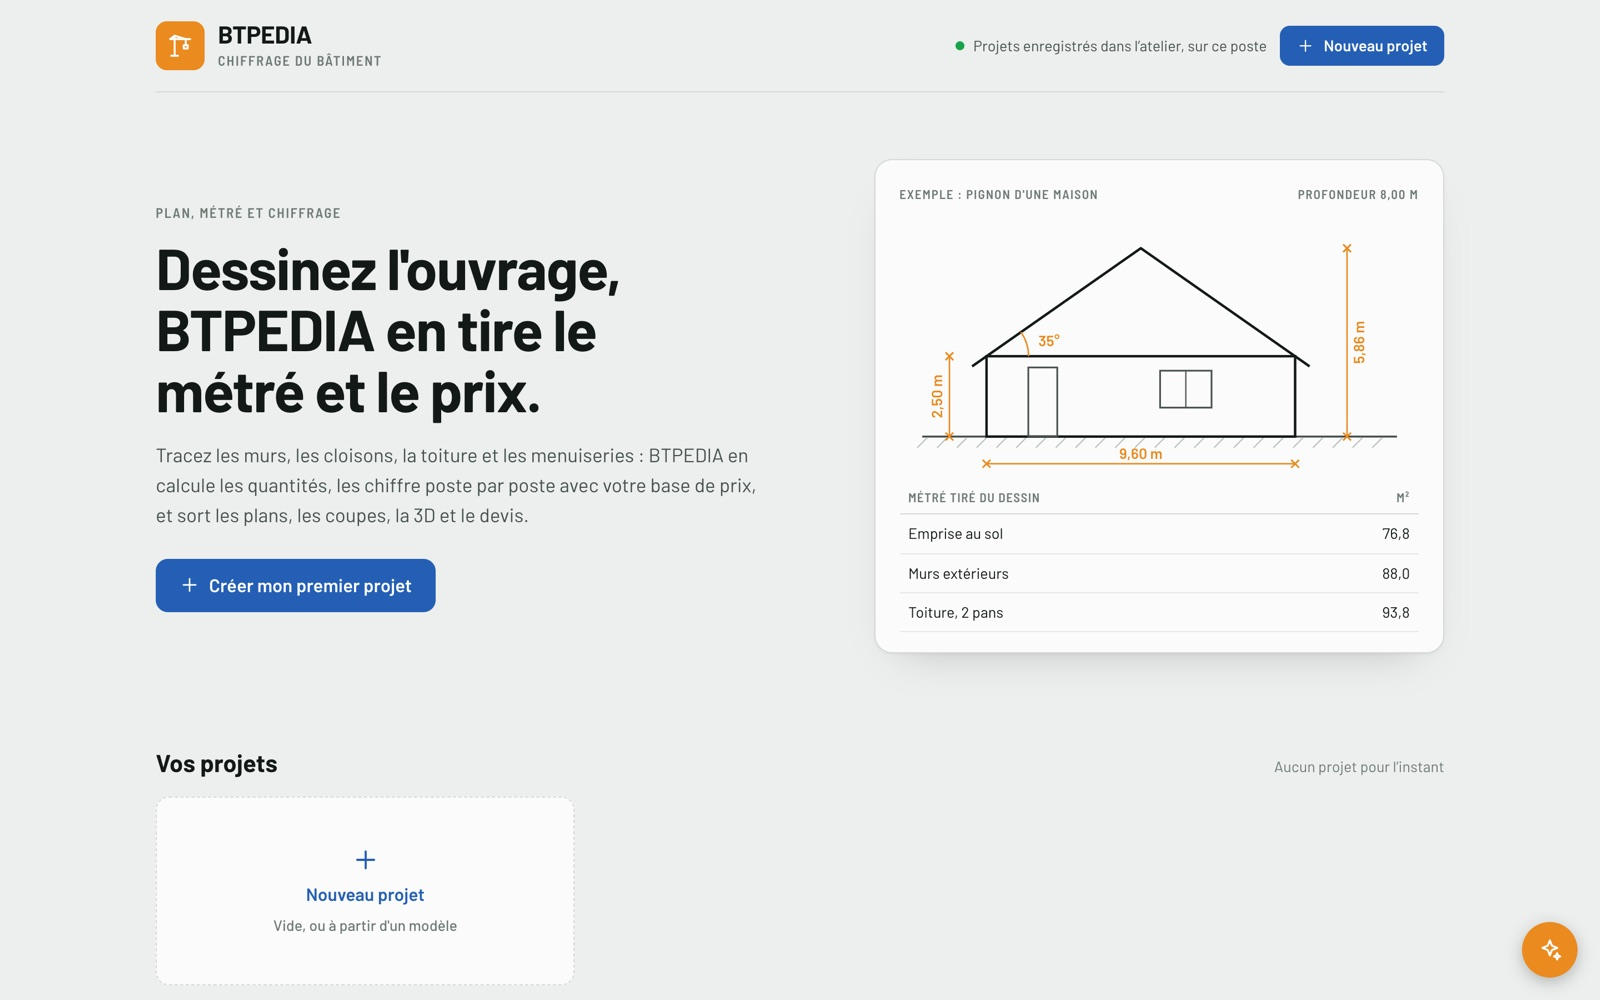
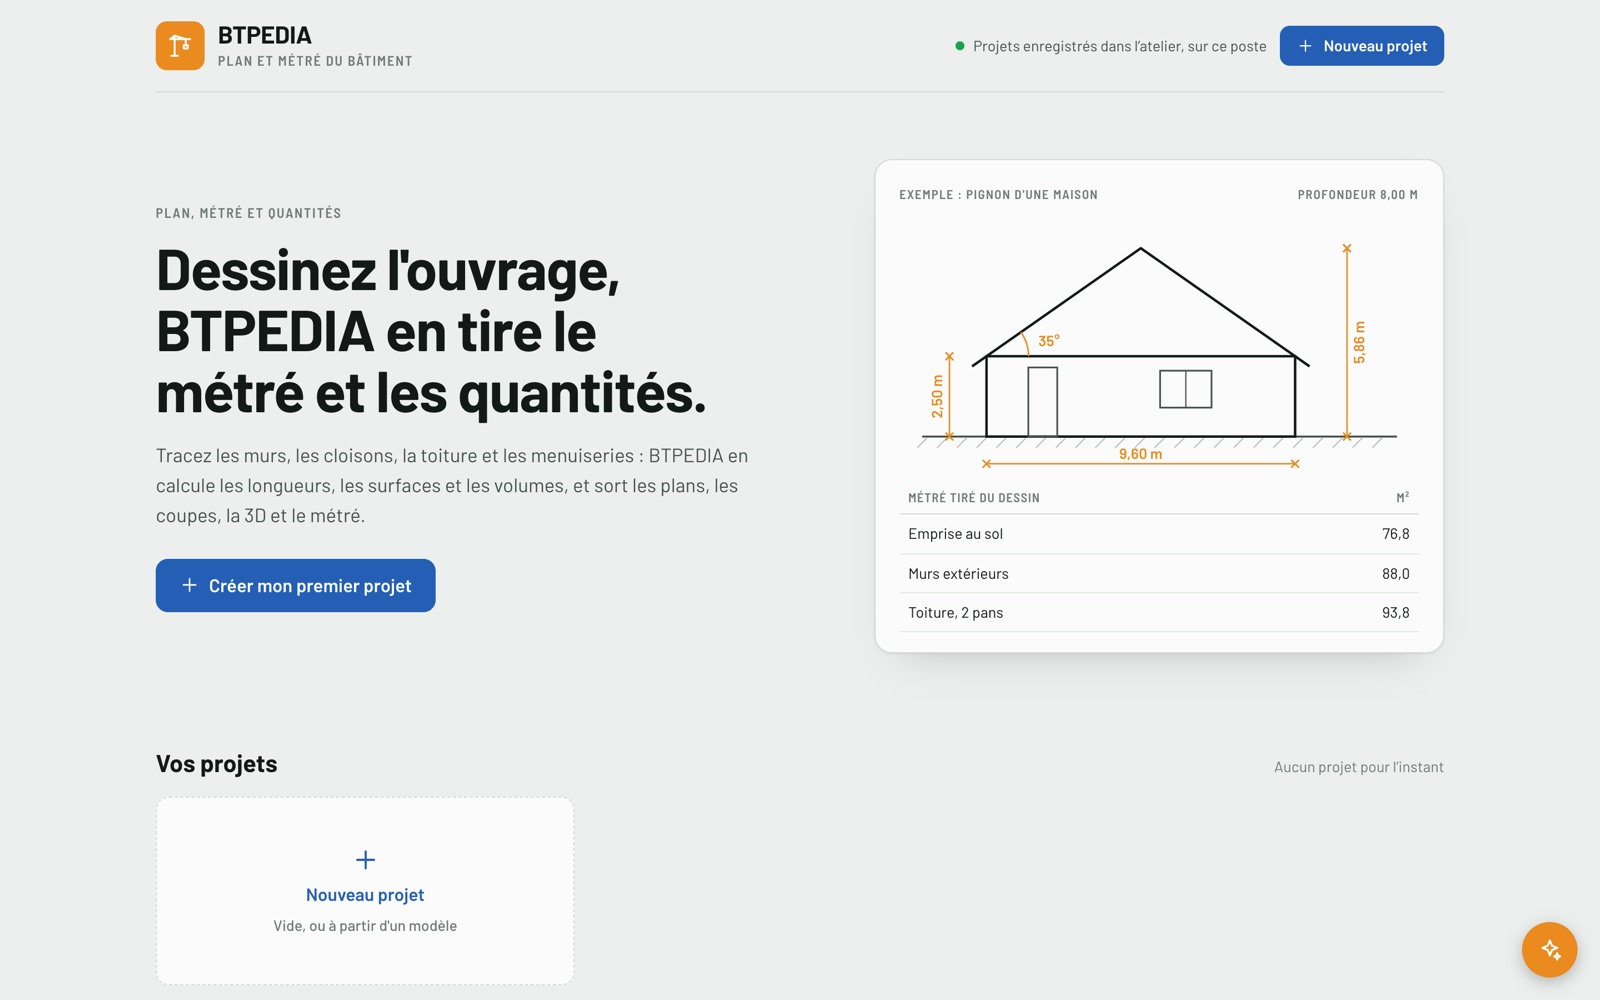
Langues et pays mis en avant, BTPEDIA sans prix (plans, coupes par niveau, 3D)
- accueil : quatrieme porte « Sept langues, six pays », bandeau
- L'Atelier : section Langues et pays (7 langues, couverture par application, limites)
- tarifs : question « hors de France »
- BTPEDIA : plus de prix ni de devis annonces ; nouvelle capture
- lien vers une section : atteint une fois la page posee

diff --git a/atelier.html b/atelier.html
@@ -54,7 +54,7 @@
         <div class="carte carte-app revele" data-incline style="--c:var(--creata)"><span class="pastille-app" style="background:var(--creata)"><svg viewBox="0 0 24 24" fill="none" stroke="currentColor" stroke-width="2"><path d="M5 20V10m7 10V4m7 16v-7"/></svg></span><h3>CREATA</h3><p>Business plan, financement, trésorerie mois par mois et score de faisabilité.</p><i class="ligne"></i></div>
         <div class="carte carte-app revele d1" data-incline style="--c:var(--juridia)"><span class="pastille-app" style="background:var(--juridia)"><svg viewBox="0 0 24 24" fill="none" stroke="currentColor" stroke-width="2"><path d="M12 4v16M5 8h14M7 8l-3 7h6zm10 0-3 7h6z"/></svg></span><h3>JURIDIA</h3><p>Les obligations que déclenche l'activité, chacune avec sa source et sa sanction.</p><i class="ligne"></i></div>
         <div class="carte carte-app revele d2" data-incline style="--c:var(--patrimonia)"><span class="pastille-app" style="background:var(--patrimonia)"><svg viewBox="0 0 24 24" fill="none" stroke="currentColor" stroke-width="2"><path d="M4 11 12 4l8 7v9H4z"/><path d="M10 20v-5h4v5"/></svg></span><h3>PATRIMONIA</h3><p>Rendement à quatre étages, cash-flow, plus-value de revente.</p><i class="ligne"></i></div>
-        <div class="carte carte-app revele" data-incline style="--c:var(--btpedia)"><span class="pastille-app" style="background:var(--btpedia)"><svg viewBox="0 0 24 24" fill="none" stroke="currentColor" stroke-width="2"><path d="M4 20h16M7 20V8h10v12M7 8l5-4 5 4"/></svg></span><h3>BTPEDIA</h3><p>Dessinez l'ouvrage : le métré, les quantités et le devis en découlent.</p><i class="ligne"></i></div>
+        <div class="carte carte-app revele" data-incline style="--c:var(--btpedia)"><span class="pastille-app" style="background:var(--btpedia)"><svg viewBox="0 0 24 24" fill="none" stroke="currentColor" stroke-width="2"><path d="M4 20h16M7 20V8h10v12M7 8l5-4 5 4"/></svg></span><h3>BTPEDIA</h3><p>Dessinez l'ouvrage : plans par niveau, coupes, 3D et métré en découlent.</p><i class="ligne"></i></div>
         <div class="carte carte-app revele d1" data-incline style="--c:var(--energia)"><span class="pastille-app" style="background:var(--energia)"><svg viewBox="0 0 24 24" fill="none" stroke="currentColor" stroke-width="2"><path d="M13 3 5 14h6l-1 7 8-11h-6z"/></svg></span><h3>ENERGIA</h3><p>La consommation des bâtiments, local par local, et ce qu'elle coûte.</p><i class="ligne"></i></div>
         <div class="carte carte-app revele d2" data-incline style="--c:var(--pilotia)"><span class="pastille-app" style="background:var(--pilotia)"><svg viewBox="0 0 24 24" fill="none" stroke="currentColor" stroke-width="2"><path d="M4 16a8 8 0 1 1 16 0M12 16l4-5"/></svg></span><h3>PILOTIA</h3><p>Le réel face au prévisionnel : l'écart se voit avant de devenir un problème.</p><i class="ligne"></i></div>
       </div>
@@ -63,7 +63,7 @@
         <div class="trait" id="trait"></div>
         <div class="etape"><div class="num">1</div><div><div class="app">La personne</div><h3>Le diagnostic d'entrée</h3><p>Parcours, compétences, freins et ressources : l'accompagnement commence par quelqu'un.</p></div></div>
         <div class="etape"><div class="num">2</div><div><div class="app">CREATA</div><h3>Faisabilité et financement</h3><p>Chaque chiffre montre sa source et sa suite, jusqu'au score.</p></div></div>
-        <div class="etape"><div class="num">3</div><div><div class="app">BTPEDIA · ENERGIA · PATRIMONIA</div><h3>Chiffrer le réel</h3><p>Les murs, l'énergie, l'immobilier : quand le projet a des mètres carrés.</p></div></div>
+        <div class="etape"><div class="num">3</div><div><div class="app">BTPEDIA · ENERGIA · PATRIMONIA</div><h3>Mesurer le réel</h3><p>Les murs, l'énergie, l'immobilier : quand le projet a des mètres carrés.</p></div></div>
         <div class="etape"><div class="num">4</div><div><div class="app">JURIDIA</div><h3>Ce qui s'impose</h3><p>Les obligations, dans l'ordre où il faut s'en occuper.</p></div></div>
         <div class="etape"><div class="num">5</div><div><div class="app">PILOTIA</div><h3>Une fois que ça tourne</h3><p>Trésorerie, factures, échéances : le prévisionnel devient un tableau de bord.</p></div></div>
       </div>
@@ -74,6 +74,32 @@
         <div><b data-compte="72" data-suffixe=" h">0</b><span>sans réseau, sans être arrêté</span></div>
         <div><b data-compte="0">0</b><span>dossier client hébergé chez nous</span></div>
       </div>
+    </div>
+  </section>
+
+  <section id="international">
+    <div class="enveloppe">
+      <div class="etiquette revele">Langues et pays</div>
+      <h2 data-mots>Dans votre langue, et pour <span class="degrade">d'autres pays</span></h2>
+      <p class="chapeau revele d2">On choisit la langue et le pays une fois, sur l'accueil de L'Atelier : chaque application les reprend. Un projet se teste ailleurs en changeant de pays, avec les règles de ce pays.</p>
+      <div class="langues revele">
+        <span lang="fr">Français</span><span lang="en">English</span><span lang="es">Español</span><span lang="it">Italiano</span><span lang="pt-BR">Português (Brasil)</span><span lang="ja">日本語</span><span lang="zh-Hans">中文</span>
+      </div>
+      <div class="pays revele">
+        <div class="pays-ligne">
+          <div class="pays-app"><b style="--c:var(--creata)">CREATA</b><span>Business plan, impôts, cotisations</span></div>
+          <div class="pays-liste"><span class="ok">France, métropole et outre-mer</span><span class="ok">Espagne</span><span class="ok">Italie</span><span class="ok">Brésil</span><span class="ok">États-Unis</span><span class="ok">Chine</span></div>
+        </div>
+        <div class="pays-ligne">
+          <div class="pays-app"><b style="--c:var(--btpedia)">BTPEDIA · ENERGIA</b><span>Plans, métré, énergie, encyclopédie</span></div>
+          <div class="pays-liste"><span class="ok">Partout</span><span class="note">un mur de 12 m² fait 12 m² dans tous les pays ; les normes citées restent françaises</span></div>
+        </div>
+        <div class="pays-ligne">
+          <div class="pays-app"><b style="--c:var(--juridia)">JURIDIA · PATRIMONIA · PILOTIA</b><span>Droit, immobilier, pilotage</span></div>
+          <div class="pays-liste"><span class="ok">France, métropole et outre-mer</span><span class="note">les autres pays sont annoncés comme non couverts, jamais calculés à la française</span></div>
+        </div>
+      </div>
+      <p class="pays-limites revele">Les limites sont dites dans l'application : États-Unis, règles fédérales seulement ; Chine, cotisations au barème de Shanghai ; Espagne, hors Pays basque, Navarre et Canaries ; Italie, hors additionnels régionaux et communaux ; Brésil, hors ICMS et ISS en dehors du Simples Nacional.</p>
     </div>
   </section>
 

diff --git a/index.html b/index.html
@@ -63,15 +63,15 @@
   </div>
 
   <div class="defile" aria-hidden="true"><div class="piste">
-    <span style="--c:var(--creata)">Business plan et financement</span><span style="--c:var(--juridia)">Obligations juridiques, sources citées</span><span style="--c:var(--btpedia)">Plans, métrés et prix du bâtiment</span><span style="--c:var(--energia)">Énergie du bâtiment</span><span style="--c:var(--patrimonia)">Investissement immobilier</span><span style="--c:var(--pilotia)">Pilotage : le réel face au prévu</span><span>Données sur votre poste</span><span style="--c:var(--or)">Métropole et outre-mer</span>
-    <span style="--c:var(--creata)">Business plan et financement</span><span style="--c:var(--juridia)">Obligations juridiques, sources citées</span><span style="--c:var(--btpedia)">Plans, métrés et prix du bâtiment</span><span style="--c:var(--energia)">Énergie du bâtiment</span><span style="--c:var(--patrimonia)">Investissement immobilier</span><span style="--c:var(--pilotia)">Pilotage : le réel face au prévu</span><span>Données sur votre poste</span><span style="--c:var(--or)">Métropole et outre-mer</span>
+    <span style="--c:var(--creata)">Business plan et financement</span><span style="--c:var(--juridia)">Obligations juridiques, sources citées</span><span style="--c:var(--btpedia)">Plans, coupes et 3D du bâtiment</span><span style="--c:var(--energia)">Énergie du bâtiment</span><span style="--c:var(--patrimonia)">Investissement immobilier</span><span style="--c:var(--pilotia)">Pilotage : le réel face au prévu</span><span>Données sur votre poste</span><span style="--c:var(--or)">Métropole et outre-mer</span><span style="--c:var(--violet)">Sept langues, du français au chinois</span><span style="--c:var(--corail)">Six pays pour tester un projet</span>
+    <span style="--c:var(--creata)">Business plan et financement</span><span style="--c:var(--juridia)">Obligations juridiques, sources citées</span><span style="--c:var(--btpedia)">Plans, coupes et 3D du bâtiment</span><span style="--c:var(--energia)">Énergie du bâtiment</span><span style="--c:var(--patrimonia)">Investissement immobilier</span><span style="--c:var(--pilotia)">Pilotage : le réel face au prévu</span><span>Données sur votre poste</span><span style="--c:var(--or)">Métropole et outre-mer</span><span style="--c:var(--violet)">Sept langues, du français au chinois</span><span style="--c:var(--corail)">Six pays pour tester un projet</span>
   </div></div>
 
   <section>
     <div class="enveloppe">
       <div class="etiquette revele">BudappsAI</div>
-      <h2 data-mots>Tout ce qu'il faut savoir, en trois pages</h2>
-      <div class="portes">
+      <h2 data-mots>Tout ce qu'il faut savoir, d'un coup d'œil</h2>
+      <div class="portes p4">
         <a class="carte porte revele" href="atelier.html" data-incline style="--c:rgba(109,93,252,.6)">
           <span class="ic" style="background:linear-gradient(135deg,var(--violet),var(--corail))"><svg viewBox="0 0 24 24" fill="none" stroke="currentColor" stroke-width="2"><path d="M4 20h16M6 20V10l6-5 6 5v10M10 20v-5h4v5"/></svg></span>
           <h3>L'Atelier</h3><p>Sept applications autour d'un même dossier : business plan, droit, bâtiment, énergie, immobilier, pilotage.</p>
@@ -84,6 +84,10 @@
           <span class="ic" style="background:linear-gradient(135deg,#e8c46a,#ef6f5c)"><svg viewBox="0 0 24 24" fill="none" stroke="currentColor" stroke-width="2"><path d="M12 3v18M16 7H10a3 3 0 0 0 0 6h4a3 3 0 0 1 0 6H7"/></svg></span>
           <h3>Tarifs</h3><p>Dès 50 € par mois, sans engagement. Pro et Structures pour accompagner vos clients.</p>
           <span class="aller">Voir les formules <svg viewBox="0 0 24 24" fill="none" stroke="currentColor" stroke-width="2"><path d="M5 12h14m-6-6 6 6-6 6"/></svg></span></a>
+        <a class="carte porte revele d3" href="atelier.html#international" data-incline style="--c:rgba(239,111,92,.6)">
+          <span class="ic" style="background:linear-gradient(135deg,var(--corail),var(--violet))"><svg viewBox="0 0 24 24" fill="none" stroke="currentColor" stroke-width="2"><circle cx="12" cy="12" r="9"/><path d="M3 12h18M12 3c2.6 2.6 4 5.6 4 9s-1.4 6.4-4 9c-2.6-2.6-4-5.6-4-9s1.4-6.4 4-9z"/></svg></span>
+          <h3>Sept langues, six pays</h3><p>L'Atelier parle votre langue, et teste un projet en France, en Espagne, en Italie, au Brésil, aux États-Unis ou en Chine.</p>
+          <span class="aller">Voir ce qui change <svg viewBox="0 0 24 24" fill="none" stroke="currentColor" stroke-width="2"><path d="M5 12h14m-6-6 6 6-6 6"/></svg></span></a>
       </div>
     </div>
   </section>

diff --git a/demo.html b/demo.html
@@ -217,7 +217,7 @@
       points: [
         [50, 9.5, 'Le pays et la langue', "Les barèmes, le droit et la monnaie suivent le pays choisi. Sept langues."],
         [28.4, 26, 'Finance et juridique', "CREATA monte l'affaire et son financement, JURIDIA dit ce qui s'impose."],
-        [50, 26, 'BTP et énergie', "BTPEDIA dessine et chiffre, ENERGIA mesure la consommation, l'encyclopédie documente."],
+        [50, 26, 'BTP et énergie', "BTPEDIA dessine et mètre le bâtiment, ENERGIA mesure la consommation, l'encyclopédie documente."],
         [71.5, 26, 'Gestion et pilotage', "PATRIMONIA pour l'immobilier, PILOTIA pour suivre l'activité réelle."],
         [40, 55.2, 'La veille réglementaire', "Les barèmes et les textes suivis, avec la date de leur dernière vérification."],
         [40, 72, 'Les dossiers', "Un dossier par client, tous ses projets dedans. Recherche et filtres par année."],
@@ -248,11 +248,11 @@
         [23, 89, "L'avancement", "Chaque projet montre où il en est."],
       ] },
     { img: 'btpedia-accueil', app: 'BTPEDIA', c: '#ef8a1f', titre: "Dessiner l'ouvrage",
-      texte: "Le métré et le devis découlent du dessin.",
+      texte: "Plans, coupes, 3D et métré découlent du dessin.",
       points: [
         [71, 33, 'Le dessin', "Murs, cloisons, toiture, menuiseries : on trace l'ouvrage."],
         [72.5, 57, 'Le métré', "Les surfaces sortent du dessin, sans rien ressaisir."],
-        [24, 47, 'Plans, 3D et devis', "Les quantités chiffrées poste par poste avec votre base de prix."],
+        [24, 47, 'Plans, coupes et 3D', "Un plan et des coupes par niveau, la 3D avec son jardin : tout vient du même dessin."],
       ] },
     { img: 'energia-accueil', app: 'ENERGIA', c: '#18a24a', titre: "L'énergie du bâtiment",
       texte: "La consommation, local par local, et ce qu'elle coûte.",

diff --git a/budappsai.css b/budappsai.css
@@ -458,3 +458,23 @@ footer.pied{position:relative;z-index:1;padding:64px 0 48px;color:var(--texte3);
   .coupure{min-height:110px}
   .coupure::before{top:0;bottom:0}
 }
+
+/* Quatre portes sur l'accueil */
+.portes.p4{grid-template-columns:repeat(4,1fr)}
+@media (max-width:1100px){.portes.p4{grid-template-columns:1fr 1fr}}
+@media (max-width:640px){.portes.p4{grid-template-columns:1fr}}
+
+/* Langues et pays (page L'Atelier) */
+.langues{display:flex;flex-wrap:wrap;justify-content:center;gap:10px;margin-top:40px}
+.langues span{padding:10px 18px;border-radius:999px;border:1px solid var(--bord);background:var(--carte);font-size:16px;color:var(--texte)}
+.pays{margin-top:36px;border:1px solid var(--bord);border-radius:22px;overflow:hidden;background:var(--carte);text-align:left}
+.pays-ligne{display:grid;grid-template-columns:minmax(220px,300px) 1fr;gap:18px;padding:22px 26px;border-top:1px solid var(--bord)}
+.pays-ligne:first-child{border-top:0}
+.pays-app b{display:flex;align-items:center;gap:10px;font-size:15px;letter-spacing:.04em}
+.pays-app b::before{content:"";width:9px;height:9px;border-radius:50%;background:var(--c);box-shadow:0 0 10px var(--c)}
+.pays-app span{display:block;margin-top:4px;color:var(--texte3);font-size:14px;font-weight:300}
+.pays-liste{display:flex;flex-wrap:wrap;gap:8px;align-items:center}
+.pays-liste .ok{padding:6px 13px;border-radius:999px;background:rgba(47,182,124,.12);color:var(--texte);font-size:14px}
+.pays-liste .note{color:var(--texte2);font-size:14px;font-weight:300;flex-basis:100%}
+.pays-limites{margin:18px auto 0;max-width:820px;text-align:center;color:var(--texte3);font-size:13.5px;font-weight:300}
+@media (max-width:760px){.pays-ligne{grid-template-columns:1fr;gap:10px;padding:18px}}

diff --git a/tarifs.html b/tarifs.html
@@ -66,6 +66,7 @@
         <details><summary>Où sont mes dossiers ?</summary><p>Chez vous, sur votre ordinateur, jamais chez nous. Le détail est sur la page <a href="donnees.html">Vos données</a>.</p></details>
         <details><summary>Et si nous sommes plusieurs ?</summary><p>La formule Structures couvre de 2 à 30 postes. Les dossiers restent sur un poste principal installé dans vos locaux : <a href="donnees.html">voir comment</a>.</p></details>
         <details><summary>Que se passe-t-il si j'arrête ?</summary><p>À l'échéance, vos dossiers restent sur votre poste et s'exportent toujours en PDF et en Excel. Rien n'est pris en otage.</p></details>
+        <details><summary>L'Atelier fonctionne-t-il hors de France ?</summary><p>Oui. Il est traduit en sept langues (français, anglais, espagnol, italien, portugais du Brésil, japonais, chinois). Le business plan se calcule avec les règles de la France, de l'Espagne, de l'Italie, du Brésil, des États-Unis ou de la Chine ; plans, métré et énergie valent partout. <a href="atelier.html#international">Le détail par application</a>.</p></details>
         <details><summary>Sur quels ordinateurs ?</summary><p>macOS (Apple Silicon et Intel) et Windows.</p></details>
       </div>
     </div>

diff --git a/budappsai.js b/budappsai.js
@@ -129,3 +129,11 @@
   }), { threshold: .6 });
   document.querySelectorAll('[data-compte]').forEach(el => io.observe(el));
 })();
+
+// Un lien vers une section (« atelier.html#international ») : le navigateur
+// saute avant que la page ait pris sa hauteur (zoom collant, images), et la
+// section n'est jamais atteinte. On y va une fois la page posee.
+addEventListener('load', () => {
+  const cible = location.hash && document.getElementById(location.hash.slice(1));
+  if (cible) setTimeout(() => cible.scrollIntoView({ block: 'start' }), 120);
+});
